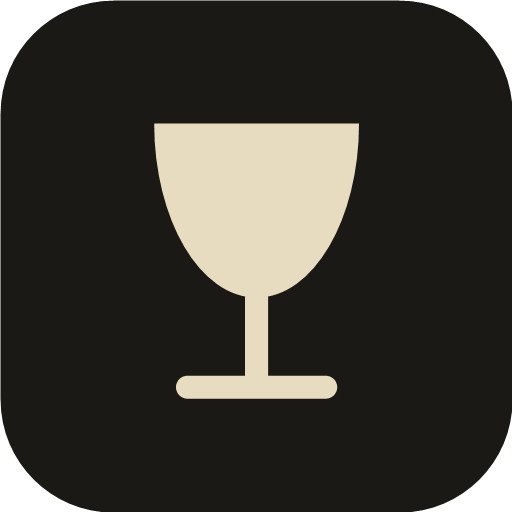
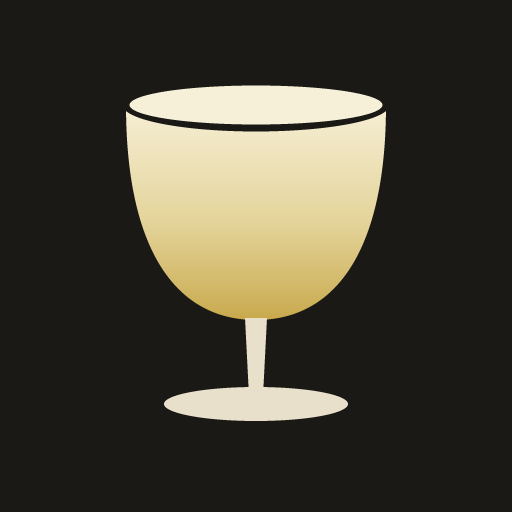
セキュリティと移行時の自作バグを修正
書き込み系APIに合言葉を導入し、移行で失われたGoogleログイン層を
部分的に補う。読み取りは素通しのまま。

- dispatch_: READ_ONLY_FNS 以外は API_TOKEN 必須に
- doPost: JSON.parse('null') が通ってしまい body.fn が try の外で
  TypeError になっていたのを修正
- sw.js: ステータス未検査で index.html をキャッシュしていた。
  デプロイ中の404を掴むとCACHE_VERSIONを上げるまで焼き付く
- アイコン: 四隅が透明だったためiOSが角丸の内側にもう一段角丸を作る。
  全面不透明・アルファ無しで再生成し、マークを拡大してゴールドを追加
- README: 「自分のみ」に切り替える案は誤りだったので訂正。
  CORSにより原理的に成立しない

diff --git a/sw.js b/sw.js
@@ -56,8 +56,15 @@ self.addEventListener('fetch', function (event) {
     event.respondWith(
       fetch(req)
         .then(function (res) {
-          var copy = res.clone();
-          caches.open(CACHE_VERSION).then(function (c) { c.put('./index.html', copy); });
+          // ステータスを確認してからキャッシュする。
+          // 確認せずに入れると、デプロイ中の一瞬に 404 を掴んだとき
+          // その 404 が index.html として焼き付き、CACHE_VERSION を
+          // 上げるまでオフライン時に 404 が出続ける。
+          // redirected なレスポンスはナビゲーションに返すと画面が真っ白になるため除外。
+          if (res && res.ok && res.status === 200 && !res.redirected) {
+            var copy = res.clone();
+            caches.open(CACHE_VERSION).then(function (c) { c.put('./index.html', copy); });
+          }
           return res;
         })
         .catch(function () {

diff --git a/index.html b/index.html
@@ -527,8 +527,8 @@ var nameMaster = { domaine:[], wine:[] };
 // 「新しいデプロイ」を作るとURLが変わるので、その場合はここも書き換える。
 var GAS_URL = 'https://script.google.com/macros/s/AKfycbw3Ay_CQ524GsfQ4NZWp5t5A0vYKvMLjI3io4y69ZQNpLc4Ow3njycvVymDZxSfESBj/exec';
 
-// Code.gs 側の API_TOKEN と同じ文字列にする。空なら認証なし。
-var API_TOKEN = '';
+// Code.gs 側の API_TOKEN と同じ文字列にすること。書き込み系で必要。
+var API_TOKEN = 'blanc-GSAIae2Dt40P';
 
 // 旧 GASウェブアプリ版の直接呼び出しの置き換え。呼び出し側の書き方と戻り値は従来どおり。
 //   - 関数が正常に返した値（{error:'...'} を含む）で resolve

diff --git a/README.md b/README.md
@@ -46,7 +46,7 @@ blanc/
 4. 右上「デプロイ」→「デプロイを管理」→ 鉛筆アイコン →
    バージョン「**新バージョン**」→ デプロイ。
    - 次のユーザーとして実行: **自分**
-   - アクセスできるユーザー: **全員**
+   - アクセスできるユーザー: **全員**（「自分のみ」は動かない。セキュリティ節を参照）
    - 既存デプロイを更新すれば URL は変わらない。
      「新しいデプロイ」を作ると URL が変わるので、その場合は `index.html` の
      `GAS_URL` も書き換えること。
@@ -149,11 +149,29 @@ headers: { 'Content-Type': 'text/plain;charset=utf-8' }   // ← ここを変え
 
 ## セキュリティ
 
-「全員」公開のため、デプロイ URL を知っていれば誰でも API を叩ける。
-気になる場合は `gas/Code.gs` の `API_TOKEN` と `index.html` の `API_TOKEN` に
-同じ合言葉を設定する。ただし `index.html` は公開されるのでトークンも
-ソースを見れば読める。本気の認証が要るならリポジトリを private にするか、
-GAS のアクセス権を「自分のみ」にして Google アカウント認証に切り替える。
+### アクセス権は「全員」しか選べない
+
+GAS のアクセス権を「自分のみ」にすると、GAS は accounts.google.com へ
+リダイレクトを返す。そこには CORS ヘッダーが無いため、ブラウザは
+クロスオリジンの fetch を打ち切る。**この構成で「自分のみ」は原理的に成立しない。**
+旧 HtmlService 版にあった Google ログインという認証層は、移行によって失われている。
+
+### 合言葉による保護
+
+代わりに `API_TOKEN` で書き込みを守っている。
+
+- **読み取り**（`READ_ONLY_FNS`）… 合言葉なしで通る
+- **書き込み**（saveWine / deleteWine / adjustStock 等）… 合言葉が一致しないと拒否
+
+`gas/Code.gs` と `index.html` の `API_TOKEN` は**必ず同じ文字列**にすること。
+片方だけ変えると書き込みが全部通らなくなる。
+
+ただし `index.html` は公開されるので、**合言葉もソースを読めば分かる**。
+防げるのは「URL をたまたま見つけた第三者」と「公開リポジトリから GAS の URL を
+自動収集するプログラム」まで。本気で調べる相手は防げない。
+
+それ以上の保護が要る場合、この構成では手がない。GitHub Pages をやめて
+GAS ウェブアプリに戻す（＝スマホでの見やすさを諦める）以外の選択肢はない。
 
 ---
 
